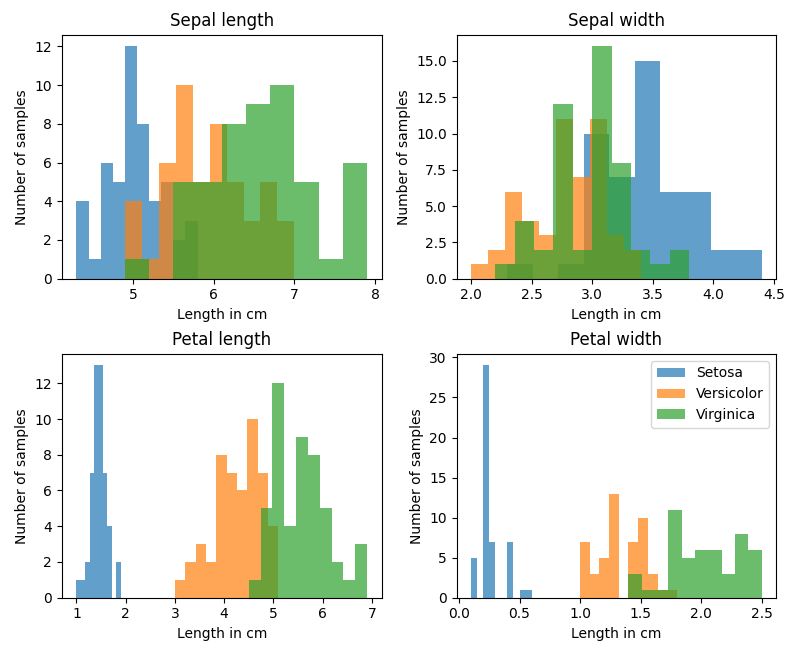
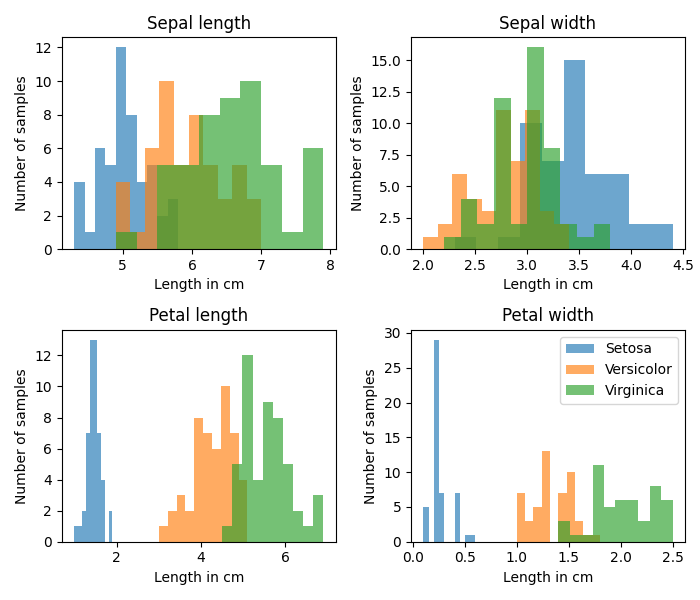
Ready for delivery

Changed region(s): [[0.0, 0.0, 0.99, 0.99], [0.96, 0.06, 0.99, 0.09]]

diff --git a/Iris/iris.py b/Iris/iris.py
@@ -2,14 +2,9 @@ from sklearn.datasets import load_iris
 from sklearn.metrics import ConfusionMatrixDisplay
 import numpy as np
 import matplotlib.pyplot as plt
+# from testfunctions import hitOrMissTest
 
-# Just for testeing: Print the iris data set 
-def printDataSet(dataSet):
-    for i,element in enumerate(dataSet):
-        print(i+1 , ":" , element)    
-
-
-# Add a 1 at the end of each sample 
+# Append a 1 at the end of each sample 
 def augmentData(dataSet):
     N = np.shape(dataSet)[0]
     D = np.shape(dataSet)[1]
@@ -19,13 +14,13 @@ def augmentData(dataSet):
         augmentedDataSet[i] = np.append(sample,[1])
 
     return augmentedDataSet 
-    
+
 
 # Takes in a data set and returns a splited version, all as 2D numpy-arrays
-def splitDataIntoTrainigAndTest(dataSet, labelSet, lastThirtyBool):
-    Nc = 50 #samplesOfEachClass
-    C = 3 #numberOfClasses
-    splitIndex = 30
+def splitDataIntoTrainigAndTest(samples, labels, lastThirtyBool):
+    Nc = 50             # samples of each class
+    C = 3               # number of classes
+    splitIndex = 30 
 
     if lastThirtyBool:
         splitIndex = 20
@@ -38,11 +33,11 @@ def splitDataIntoTrainigAndTest(dataSet, labelSet, lastThirtyBool):
     for i in range(Nc):
         for j in range(C):
             if i < splitIndex:
-                trainingSamples.append(dataSet[i + Nc*j])
-                trainingLabels.append(labelSet[i + Nc*j])
+                trainingSamples.append(samples[i + Nc*j])
+                trainingLabels.append(labels[i + Nc*j])
             else:
-                testSamples.append(dataSet[i + Nc*j])
-                testLabels.append(labelSet[i + Nc*j])
+                testSamples.append(samples[i + Nc*j])
+                testLabels.append(labels[i + Nc*j])
 
     # Make array into numpy array
     trainingSamples = np.array(trainingSamples)
@@ -61,12 +56,12 @@ def splitDataIntoTrainigAndTest(dataSet, labelSet, lastThirtyBool):
 
 # One-Hot encoding of (vector of) classes
 # Takes in classes reperesented by a scalar and returns a vector reperesentastion 
-def oneHotEncoding(labelset):
-    N = np.shape(labelset)[0]
+def oneHotEncoding(labels):
+    N = np.shape(labels)[0]
     C = 3
 
     labelVectorSet = np.zeros((N,C))
-    for i,clas in enumerate(labelset):
+    for i,clas in enumerate(labels):
         # if clas == 0: labelVectorSet[i] = [1,0,0]
         # elif clas == 1: labelVectorSet[i] = [0,1,0]
         # else: #clas == 2: labelVectorSet[i] = [0,0,1]
@@ -136,13 +131,13 @@ def trainClassifier(initialW, numberOfIterations, alpha, labels, samples):
     mseVec = np.zeros((numberOfIterations,1))
     errorRateVec = np.zeros((numberOfIterations,1))
 
-    for i in range(numberOfIterations):
+    for m in range(numberOfIterations):
         trainClassifiedLabels = classifySamples(W,samples)
         W = improveW(W,alpha,trainClassifiedLabels,labels,samples )
 
         # Recording the performance/improvement
-        mseVec[i] = MSE(trainClassifiedLabels,labels)
-        errorRateVec[i] = errorRate(binaryClassifySamples(trainClassifiedLabels), labels)
+        mseVec[m] = MSE(trainClassifiedLabels,labels)
+        errorRateVec[m] = errorRate(binaryClassifySamples(trainClassifiedLabels), labels)
 
     return W, mseVec, errorRateVec
 
@@ -167,16 +162,6 @@ def errorRate(classifiedLabels, trueLabels):
     return errors/N 
 
 
-# Just for testeing - A simple test for cheching how each sample is classified wrt the true labels
-def HitOrMissTest(trueLabels, classifiedLabels):
-    N = np.shape(trueLabels)[0]
-    for i in range(N):
-        if (trueLabels[i] == classifiedLabels[i]).all():
-            print("Hit")
-        else:
-            print("Miss:",trueLabels[i], "was wrongly classified as", classifiedLabels[i])
-  
-
 # Returns a confusion matrix based on w, a set of samples and it's true labels 
 def confusion(W, samples, labels):
     N = np.shape(labels)[0]
@@ -188,9 +173,8 @@ def confusion(W, samples, labels):
         trueLabel = np.argmax(labels[i])
         clasLabel = np.argmax(classifiedLabels[i])
         confusionMatrix[trueLabel][clasLabel] += 1    
-    ##
+
     errorRateVal = errorRate(classifiedLabels, labels)
-    ##
     
     return confusionMatrix, errorRateVal
 
@@ -232,7 +216,7 @@ def plotMseAndErrorRate(alphas, mseVecs, errorRateVecs):
         # axes[1].set_title('Error rate')
         axes[1].plot(iterationsVec, errorRateVec, label = "α = " + str(alphas[i]))
         axes[1].set(xlabel = 'Number of iterations', ylabel = 'Error rate') 
-        axes[1].legend()
+        axes[1].legend() # Not necessary in both of the subplots - May be removed in one of them
 
     plt.show()
 
@@ -262,7 +246,7 @@ def plotFeatureHistogram():
     featuresTxt = ["Sepal length", "Sepal width", "Petal length", "Petal width"]
     flowersTxt = ["Setosa", "Versicolor", "Virginica"]
 
-    _, axes = plt.subplots(2, 2, figsize = (8,7))
+    _, axes = plt.subplots(2, 2, figsize = (7,6))
     for i,feature in enumerate(featuresTxt):
         for j,flower in enumerate(flowersTxt):
             axes.flat[i].hist(flowers[j][:,i], label = flower, alpha = 0.65)
@@ -292,7 +276,7 @@ def run(lastThirtyBool,showDifferentAlphasBool, numberOfFeatures):
     elif numberOfFeatures == 12:
         samples = np.delete(samples, [0,1,3], 1)
 
-    # Add a 1 at the end of each sample 
+    # Append a 1 at the end of each sample 
     augmentedIris = augmentData(samples)
 
     # Split the data into traing and test, both into sets of samplels and labels   
@@ -310,15 +294,17 @@ def run(lastThirtyBool,showDifferentAlphasBool, numberOfFeatures):
     W = np.zeros((C, D+1))
 
     # Test different alphas and number of iterations 
-    alphas = [0.1, 0.05, 0.01, 0.005, 0.001, 0.0005]
+    alphas = [0.05, 0.01, 0.005, 0.001, 0.0005] # Interesting alphas
     numberOfIterations = 2000  # Chosen based on a comprehensive testing    
     if showDifferentAlphasBool:
         mseVecs, errorRateVecs = testDifferentAlphas(W,alphas,numberOfIterations,trainLabels,trainSamples)
         plotMseAndErrorRate(alphas, mseVecs, errorRateVecs)
     
     # Train the classifier (again) with the chosen alpha (and number of iterations) based on testing 
-    alpha = alphas[2]
-    trainedW, _, _ = trainClassifier(W, numberOfIterations, alpha, trainLabels, trainSamples)    
+    alpha = alphas[1] # = 0.01
+    trainedW, _, _ = trainClassifier(W, numberOfIterations, alpha, trainLabels, trainSamples)
+
+    # hitOrMissTest(trainLabels, binaryClassifySamples(classifySamples(trainedW,trainSamples)))    
 
     # Generate confusion matrices
     trainsetConfusionMatrix, trainErrorRate = confusion(trainedW, trainSamples, trainLabels) # print(trainsetConfusionMatrix)
@@ -337,10 +323,11 @@ menuOpts = {
     5: 'Take away Sepal width and lenght',
     6: 'Take away Sepal width and lenght, and Petal length',
     7: 'Take away Sepal width and lenght, and Petal width ',
-    8: 'Close',
+    8: 'Toggle if plot of MSE and error rate should be shown for different alphas',
+    9: 'Close'
 }
 
-showDifferentAlphasBool = 0 #1 # Was turned of during testing to save computational power 
+showDifferentAlphasBool = 1 # Was turned of during testing to save computational power 
 loop = True
 
 while loop:
@@ -352,9 +339,12 @@ while loop:
     print('\nMenu options:')
     for key in menuOpts.keys():
         print(' ', key, '-', menuOpts[key])
+    if showDifferentAlphasBool: 
+        print("Plots showing MSE and error rate for different alphas will be shown")
+    else:
+        print("Plots showing MSE and error rate for different alphas will not be shown")
 
     option = int(input('Enter your number: '))
-
     if option == 1:
         run(lastThirtyBool,showDifferentAlphasBool, numberOfFeatures)
 
@@ -382,8 +372,16 @@ while loop:
         run(lastThirtyBool,showDifferentAlphasBool, numberOfFeatures)
     
     elif option == 8:
+        if showDifferentAlphasBool:
+            showDifferentAlphasBool = 0
+            print("Plotting of different alphas turned off")
+        else:
+            showDifferentAlphasBool = 1
+            print("Plotting of different alphas turned on")
+    
+    elif option == 9:
         print('Closing')
         loop = False
 
     else:
-        print('Invalid option. Valid inputs are numbers between 1 and 8')
+        print('Invalid option. Valid inputs are numbers between 1 and 9')

diff --git a/Iris/testfunctions.py b/Iris/testfunctions.py
@@ -1,0 +1,18 @@
+# Functions used during testeing 
+from sklearn.datasets import load_iris
+import numpy as np
+
+# Print the iris data set 
+def printDataSet(dataSet):
+    for i,element in enumerate(dataSet):
+        print(i+1 , ":" , element)  
+
+
+# A simple test for cheching how each sample is classified wrt the true labels
+def hitOrMissTest(trueLabels, classifiedLabels):
+    N = np.shape(trueLabels)[0]
+    for i in range(N):
+        if (trueLabels[i] == classifiedLabels[i]).all():
+            print("Hit")
+        else:
+            print("Miss:",trueLabels[i], "was wrongly classified as", classifiedLabels[i])
